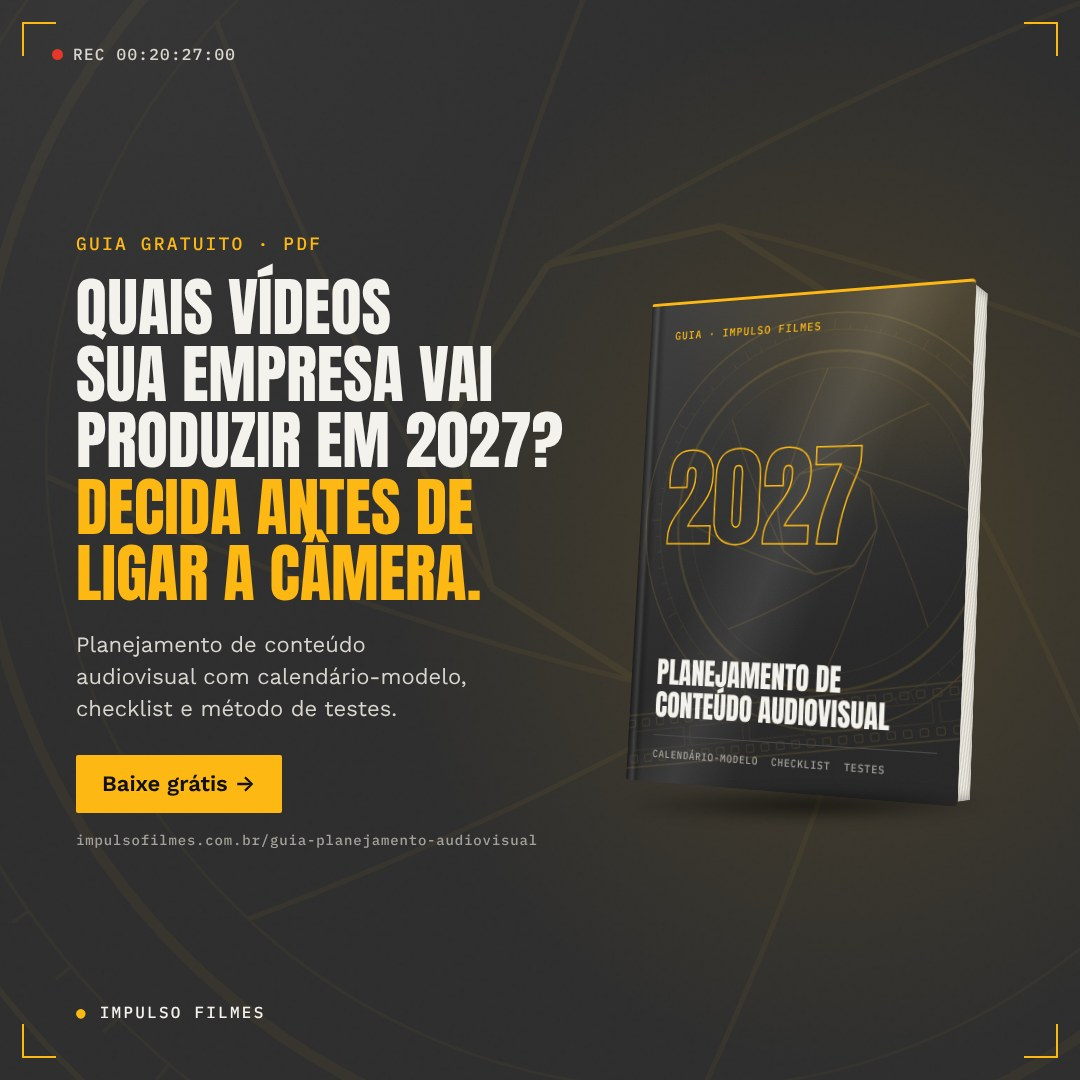
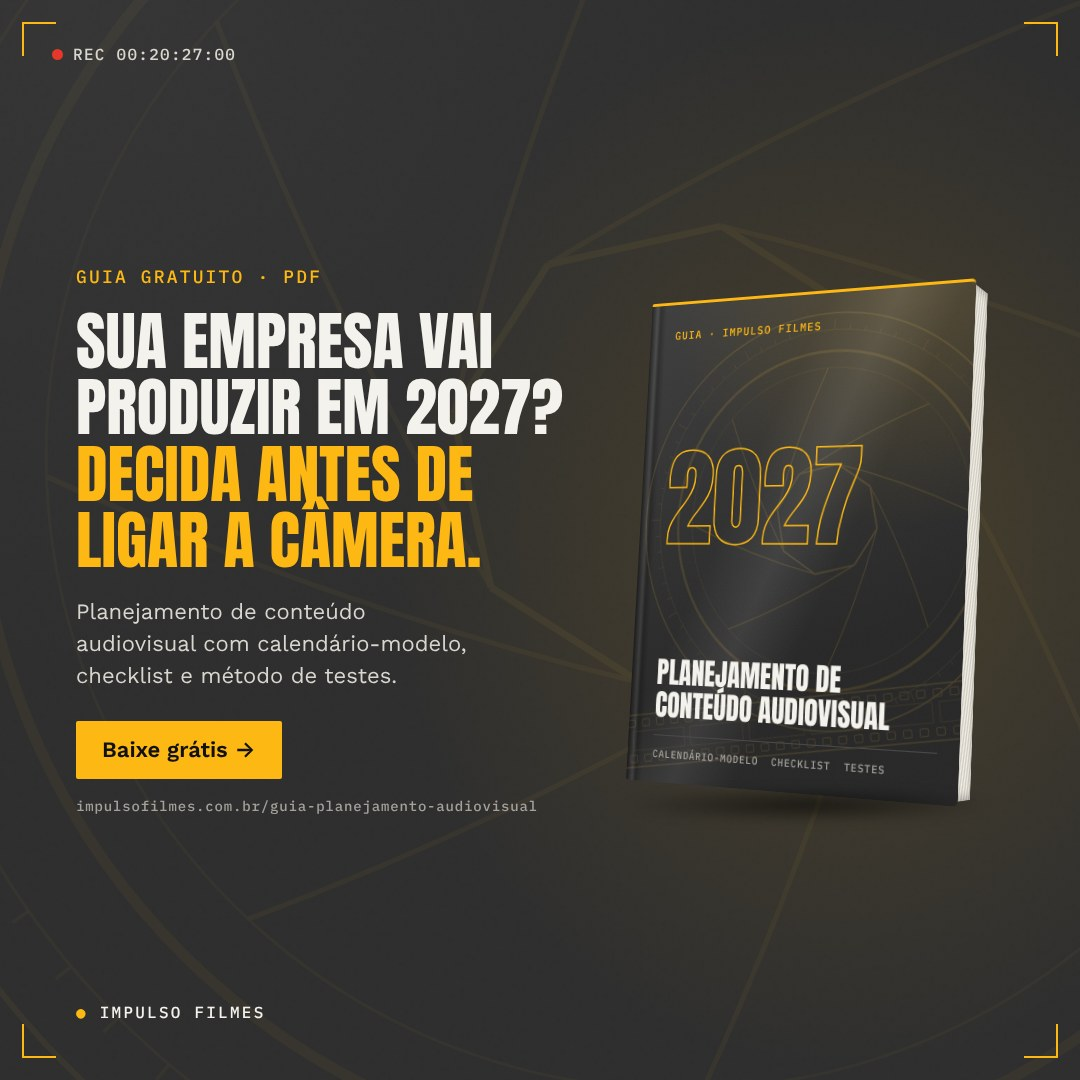
Cursor "Receba o guia" sobre o livro; título novo no compartilhamento e nas imagens de divulgação
Claude-Session: https://claude.ai/code/session_01SGBA6gHqWrHQdPf3NpZQUW

Changed region(s): [[0.0611, 0.2139, 0.5194, 0.7944]]

diff --git a/index.html b/index.html
@@ -13,7 +13,7 @@
 <meta property="og:type" content="website">
 <meta property="og:site_name" content="Impulso Filmes">
 <meta property="og:url" content="https://www.impulsofilmes.com.br/guia-planejamento-audiovisual/">
-<meta property="og:title" content="Quais vídeos sua empresa vai produzir em 2027? Guia gratuito de planejamento audiovisual">
+<meta property="og:title" content="Sua empresa vai produzir em 2027? Guia gratuito de planejamento audiovisual">
 <meta property="og:description" content="Monte o planejamento de conteúdo audiovisual da sua empresa com calendário-modelo, checklist e método de testes. PDF gratuito da Impulso Filmes.">
 <meta property="og:image" content="https://www.impulsofilmes.com.br/guia-planejamento-audiovisual/compartilhamento.jpg">
 <meta property="og:image:width" content="1200">
@@ -27,8 +27,8 @@
 <link rel="preconnect" href="https://fonts.googleapis.com">
 <link rel="preconnect" href="https://fonts.gstatic.com" crossorigin>
 <link href="https://fonts.googleapis.com/css2?family=Anton&family=IBM+Plex+Mono:wght@400;500&family=Work+Sans:ital,wght@0,400;0,500;0,600;1,400&display=swap" rel="stylesheet">
-<link rel="stylesheet" href="base.css?v=10200247">
-<link rel="stylesheet" href="lp.css?v=10200247">
+<link rel="stylesheet" href="base.css?v=10200249">
+<link rel="stylesheet" href="lp.css?v=10200249">
 <script type="application/ld+json">
 {
   "@context": "https://schema.org",
@@ -95,11 +95,11 @@
       <p class="support">Material gratuito em PDF.</p>
     </div>
 
-    <a class="book" href="#guia" data-cursor="PDF" aria-label="Capa do guia. Ir para o formulário">
+    <a class="book" href="#guia" data-cursor="Receba o guia" aria-label="Capa do guia. Ir para o formulário">
       <span class="book-3d">
         <span class="flap">
         <span class="cover">
-          <img class="cover-art" src="capa-textura.svg?v=10200247" alt="" aria-hidden="true" style="position:absolute;inset:0;width:100%;height:100%;opacity:.16">
+          <img class="cover-art" src="capa-textura.svg?v=10200249" alt="" aria-hidden="true" style="position:absolute;inset:0;width:100%;height:100%;opacity:.16">
           <span class="cover-tag">Guia · Impulso Filmes</span>
           <span class="cover-year" aria-hidden="true"><i>2</i><i>0</i><i>2</i><i>7</i></span>
           <span class="cover-title">Planejamento de conteúdo audiovisual</span>
@@ -370,7 +370,7 @@
 
 <div class="cursor" aria-hidden="true"></div><div class="dot" aria-hidden="true"></div>
 
-<script src="config.js?v=10200247"></script>
-<script src="lp.js?v=10200247"></script>
+<script src="config.js?v=10200249"></script>
+<script src="lp.js?v=10200249"></script>
 </body>
 </html>

diff --git a/obrigado.html b/obrigado.html
@@ -9,8 +9,8 @@
 <link rel="preconnect" href="https://fonts.googleapis.com">
 <link rel="preconnect" href="https://fonts.gstatic.com" crossorigin>
 <link href="https://fonts.googleapis.com/css2?family=Anton&family=IBM+Plex+Mono:wght@400;500&family=Work+Sans:ital,wght@0,400;0,500;0,600;1,400&display=swap" rel="stylesheet">
-<link rel="stylesheet" href="base.css?v=10200247">
-<link rel="stylesheet" href="lp.css?v=10200247">
+<link rel="stylesheet" href="base.css?v=10200249">
+<link rel="stylesheet" href="lp.css?v=10200249">
 </head>
 <body class="thanks-page">
 
@@ -73,7 +73,7 @@
 
 <div class="cursor" aria-hidden="true"></div><div class="dot" aria-hidden="true"></div>
 
-<script src="config.js?v=10200247"></script>
-<script src="lp.js?v=10200247"></script>
+<script src="config.js?v=10200249"></script>
+<script src="lp.js?v=10200249"></script>
 </body>
 </html>

diff --git a/divulgacao/arte.html b/divulgacao/arte.html
@@ -77,7 +77,7 @@
   <p class="recline"><i></i>REC 00:20:27:00</p>
   <div class="txt">
     <p class="eyebrow">Guia gratuito · PDF</p>
-    <h1>Quais vídeos sua empresa vai produzir em 2027? <em>Decida antes de ligar a câmera.</em></h1>
+    <h1>Sua empresa vai produzir em 2027? <em>Decida antes de ligar a câmera.</em></h1>
     <p class="sub">Planejamento de conteúdo audiovisual com calendário-modelo, checklist e método de testes.</p>
     <span class="chip">Baixe grátis →</span>
     <p class="url">impulsofilmes.com.br/guia-planejamento-audiovisual</p>

diff --git a/lp.css b/lp.css
@@ -259,3 +259,8 @@
   .cover-year i { transform: none; }
   .statement.reveal .eyebrow { opacity: 1; }
 }
+
+/* Cursor com texto mais longo ("Receba o guia"): quebra em duas linhas centralizadas dentro da bolinha */
+@media (hover: hover) and (pointer: fine) {
+  .has-cursor .cursor.label { text-align: center; line-height: 1.3; padding: 0 12px; text-transform: uppercase; }
+}
